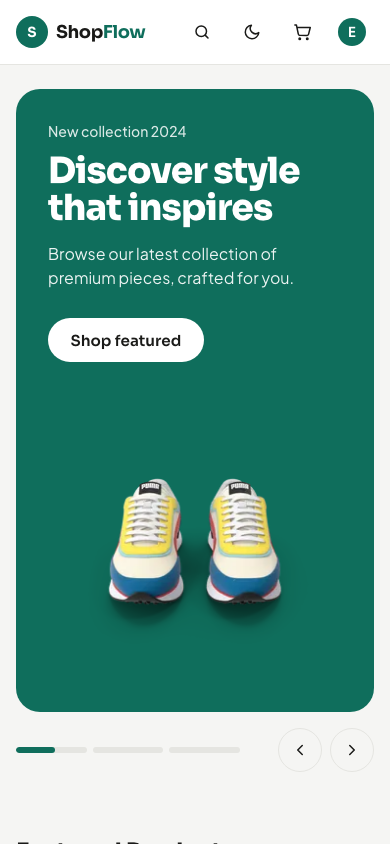
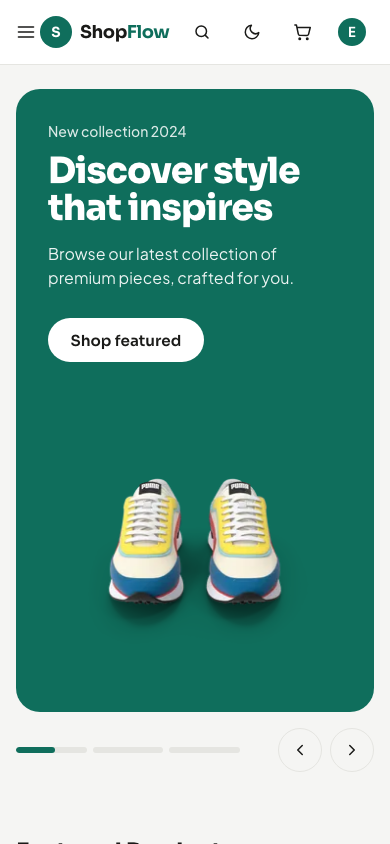
feat(nav): mobile hamburger menu
- Hamburger button (md:hidden) opens a slide-down menu with Home/Products/Categories/About + Logout
- Active link highlighted; closes on navigation and outside click

Changed region(s): [[0.0308, 0.0, 0.4308, 0.0616]]

diff --git a/src/app/shared/navbar.ts b/src/app/shared/navbar.ts
@@ -15,17 +15,30 @@ import { CartService } from '../core/cart.service';
       style="background: var(--surface); border-bottom: 1px solid var(--line)"
     >
       <div class="container-page flex h-16 items-center justify-between gap-3">
-        <a routerLink="/home" class="flex shrink-0 items-center gap-2" aria-label="ShopFlow home">
-          <span
-            class="grid h-8 w-8 place-items-center rounded-full font-display text-sm font-bold text-white"
-            style="background: var(--accent-bg)"
-            aria-hidden="true"
-            >S</span
+        <div class="flex min-w-0 items-center gap-1">
+          <button
+            type="button"
+            class="btn btn-ghost h-11 w-11 p-0 md:hidden"
+            (click)="toggleMenu()"
+            [attr.aria-expanded]="menuOpen()"
+            aria-label="Menu"
           >
-          <span class="font-display text-lg font-bold tracking-tight">
-            Shop<span class="text-accent">Flow</span>
-          </span>
-        </a>
+            <svg width="20" height="20" viewBox="0 0 24 24" fill="none" stroke="currentColor" stroke-width="2" stroke-linecap="round" aria-hidden="true">
+              <path d="M3 6h18M3 12h18M3 18h18" />
+            </svg>
+          </button>
+          <a routerLink="/home" class="flex shrink-0 items-center gap-2" aria-label="ShopFlow home">
+            <span
+              class="grid h-8 w-8 place-items-center rounded-full font-display text-sm font-bold text-white"
+              style="background: var(--accent-bg)"
+              aria-hidden="true"
+              >S</span
+            >
+            <span class="font-display text-lg font-bold tracking-tight">
+              Shop<span class="text-accent">Flow</span>
+            </span>
+          </a>
+        </div>
 
         <nav class="hidden items-center gap-6 md:flex" aria-label="Primary">
           <a
@@ -208,6 +221,26 @@ import { CartService } from '../core/cart.service';
       </div>
 
       <div
+        [class]="menuClass()"
+        [inert]="!menuOpen()"
+        [attr.aria-hidden]="menuOpen() ? null : 'true'"
+      >
+        <nav class="flex flex-col gap-1 px-4 pb-3" aria-label="Mobile">
+          <a routerLink="/home" [class]="navLinkClass(onHome())" (click)="closeMenu()">Home</a>
+          <a routerLink="/products" [class]="navLinkClass(onProducts())" (click)="closeMenu()">Products</a>
+          <a routerLink="/categories" [class]="navLinkClass(onCategories())" (click)="closeMenu()">Categories</a>
+          <a routerLink="/about" [class]="navLinkClass(onAbout())" (click)="closeMenu()">About</a>
+          <button
+            type="button"
+            class="mt-2 rounded-xl px-3 py-3 text-left text-base font-medium text-ink transition-colors hover:bg-line"
+            (click)="logout()"
+          >
+            Logout
+          </button>
+        </nav>
+      </div>
+
+      <div
         [class]="searchBarClass()"
         [inert]="!searchOpen()"
         [attr.aria-hidden]="searchOpen() ? null : 'true'"
@@ -244,6 +277,7 @@ export class Navbar {
   readonly searchOpen = signal(false);
   readonly cartOpen = signal(false);
   readonly profileOpen = signal(false);
+  readonly menuOpen = signal(false);
   readonly query = signal('');
   readonly searchInput = viewChild<ElementRef<HTMLInputElement>>('searchInput');
 
@@ -269,6 +303,7 @@ export class Navbar {
         this.searchOpen.set(false);
         this.cartOpen.set(false);
         this.profileOpen.set(false);
+        this.menuOpen.set(false);
       });
   }
 
@@ -282,6 +317,7 @@ export class Navbar {
     if (!this.elementRef.nativeElement.contains(event.target)) {
       this.cartOpen.set(false);
       this.profileOpen.set(false);
+      this.menuOpen.set(false);
     }
   }
 
@@ -292,6 +328,30 @@ export class Navbar {
     if (this.searchOpen()) {
       setTimeout(() => this.searchInput()?.nativeElement.focus());
     }
+  }
+
+  toggleMenu(): void {
+    this.cartOpen.set(false);
+    this.profileOpen.set(false);
+    this.searchOpen.set(false);
+    this.menuOpen.update((value) => !value);
+  }
+
+  closeMenu(): void {
+    this.menuOpen.set(false);
+  }
+
+  menuClass(): string {
+    const base = 'overflow-hidden transition-all duration-300 ease-out md:hidden';
+    return this.menuOpen()
+      ? `${base} max-h-96 opacity-100`
+      : `${base} max-h-0 opacity-0 pointer-events-none`;
+  }
+
+  navLinkClass(active: boolean): string {
+    return `block rounded-xl px-3 py-3 text-base transition-colors ${
+      active ? 'font-semibold text-accent' : 'text-ink hover:bg-line'
+    }`;
   }
 
   searchBarClass(): string {
